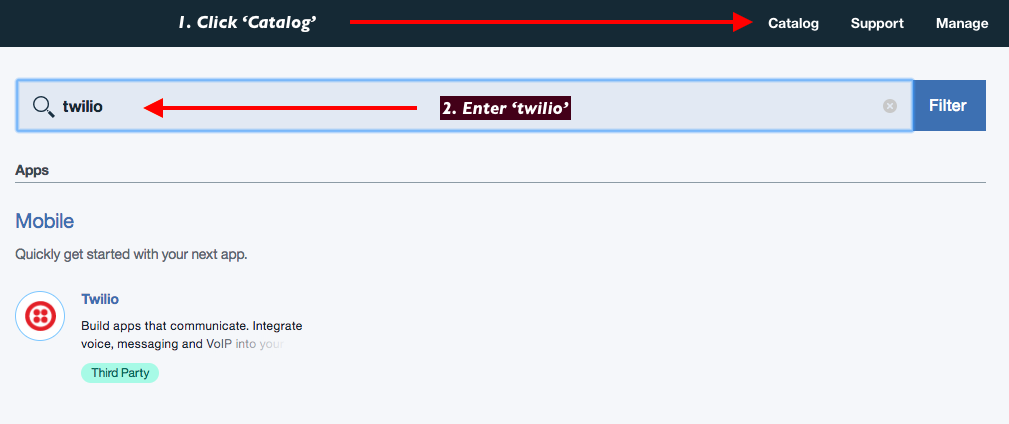
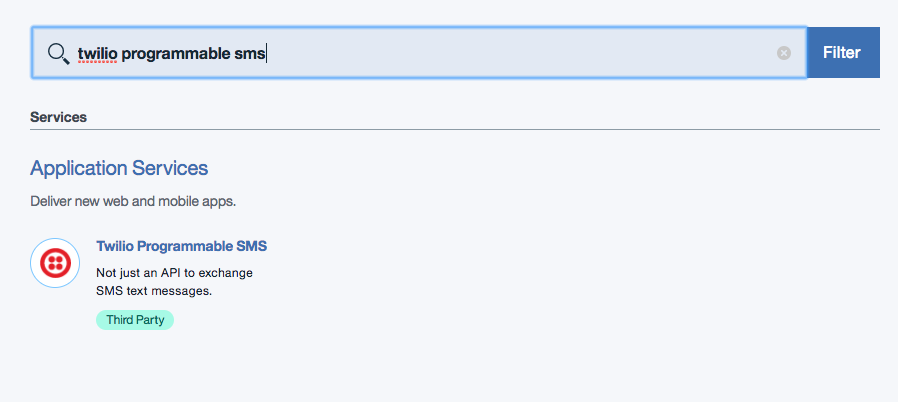
Adapting to our integration

diff --git a/services/TwilioProgrammableSMS/index.md b/services/TwilioProgrammableSMS/index.md
@@ -51,7 +51,7 @@ Follow this steps to get started with Twilio Programmable SMS on Bluemix:
 3. Log into Bluemix Console and create a Twilio App
 
    - Click 'Catalog' at the top of the screen
-   - Enter 'twilio'
+   - Enter 'twilio programmable sms'
 
    ![Twilio app from Bluemix catalog](images/01-bluemix-catalog-twilio.png)
 
@@ -60,26 +60,26 @@ Follow this steps to get started with Twilio Programmable SMS on Bluemix:
 
    ![Configure your Twilio Credentials](images/02-twilio-credentials.png)
 
+   Next, navigate to your [Phone Number Inventory](https://www.twilio.com/console/phone-numbers/incoming).  
+   Choose a number which has SMS capabilities, and enter it in [E.164](https://support.twilio.com/hc/en-us/articles/223183008-Formatting-International-Phone-Numbers) format.
+
    Once complete (and correct), 'Create' the App.
 
 5. In the Bluemix Console, select 'Catalog' -> 'Apps' -> 'Cloud Foundry Apps'
    then select the `SDK for Node.js`. Name it something memorable.
 
-6. In the Bluemix Dashboard, click on your Twilio Service under 'Services',
+6. In the Bluemix Dashboard, click on your Twilio Programmable SMS Service under 'Services',
    then click the 'Create connection +' button. Connect it to your new Node.js
    App.
 
-7. Set two environment variables:
+7. Set an environment variable:
 
    ```
-   TWILIO_PHONE_NUMBER
-   TWILIO_OUTGOING_PHONE_NUMBER
+   OUTGOING_PHONE_NUMBER
    ```
    {: screen}
 
-   The first should be a Twilio controlled phone number you’ve purchased
-   (with SMS capabilities). The second should be a cell phone number where
-   you can receive texts.
+   This should be a cell phone number (or similar) where you can receive SMSes.
 
 8. Locally, clone our sample application:
 
@@ -108,7 +108,7 @@ Follow this steps to get started with Twilio Programmable SMS on Bluemix:
     controversial statement in response. Make sure you reply with your best
     argument.
 
-12. To complete the loop, you should receive a well-argued retort.
+12. To complete the loop, you should receive a well-argued retort!
 
 And with that you’ve got the bones of a SMS sending and receiving application.
 
